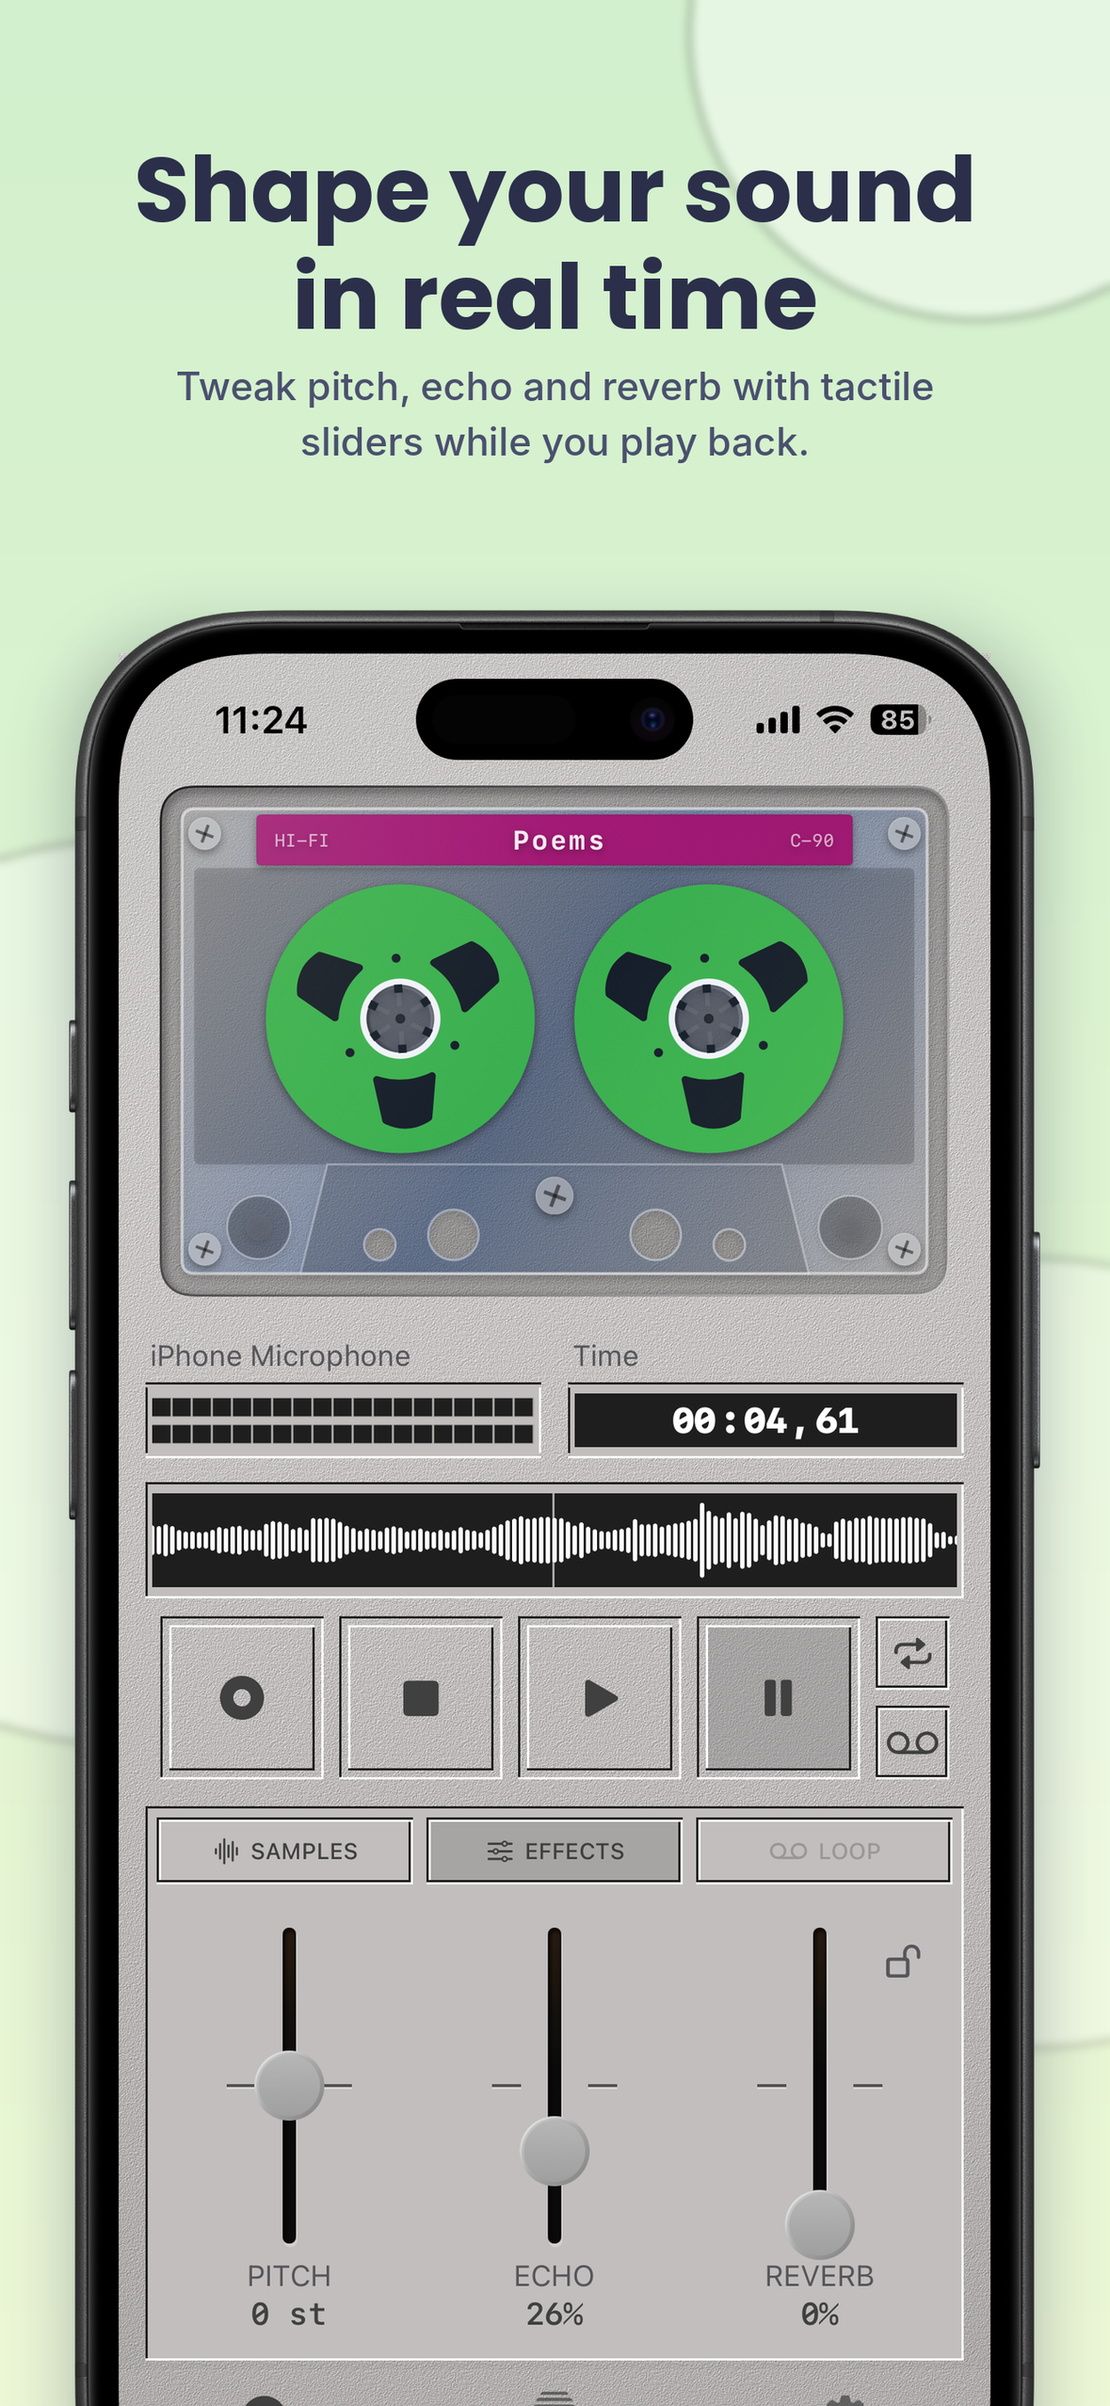
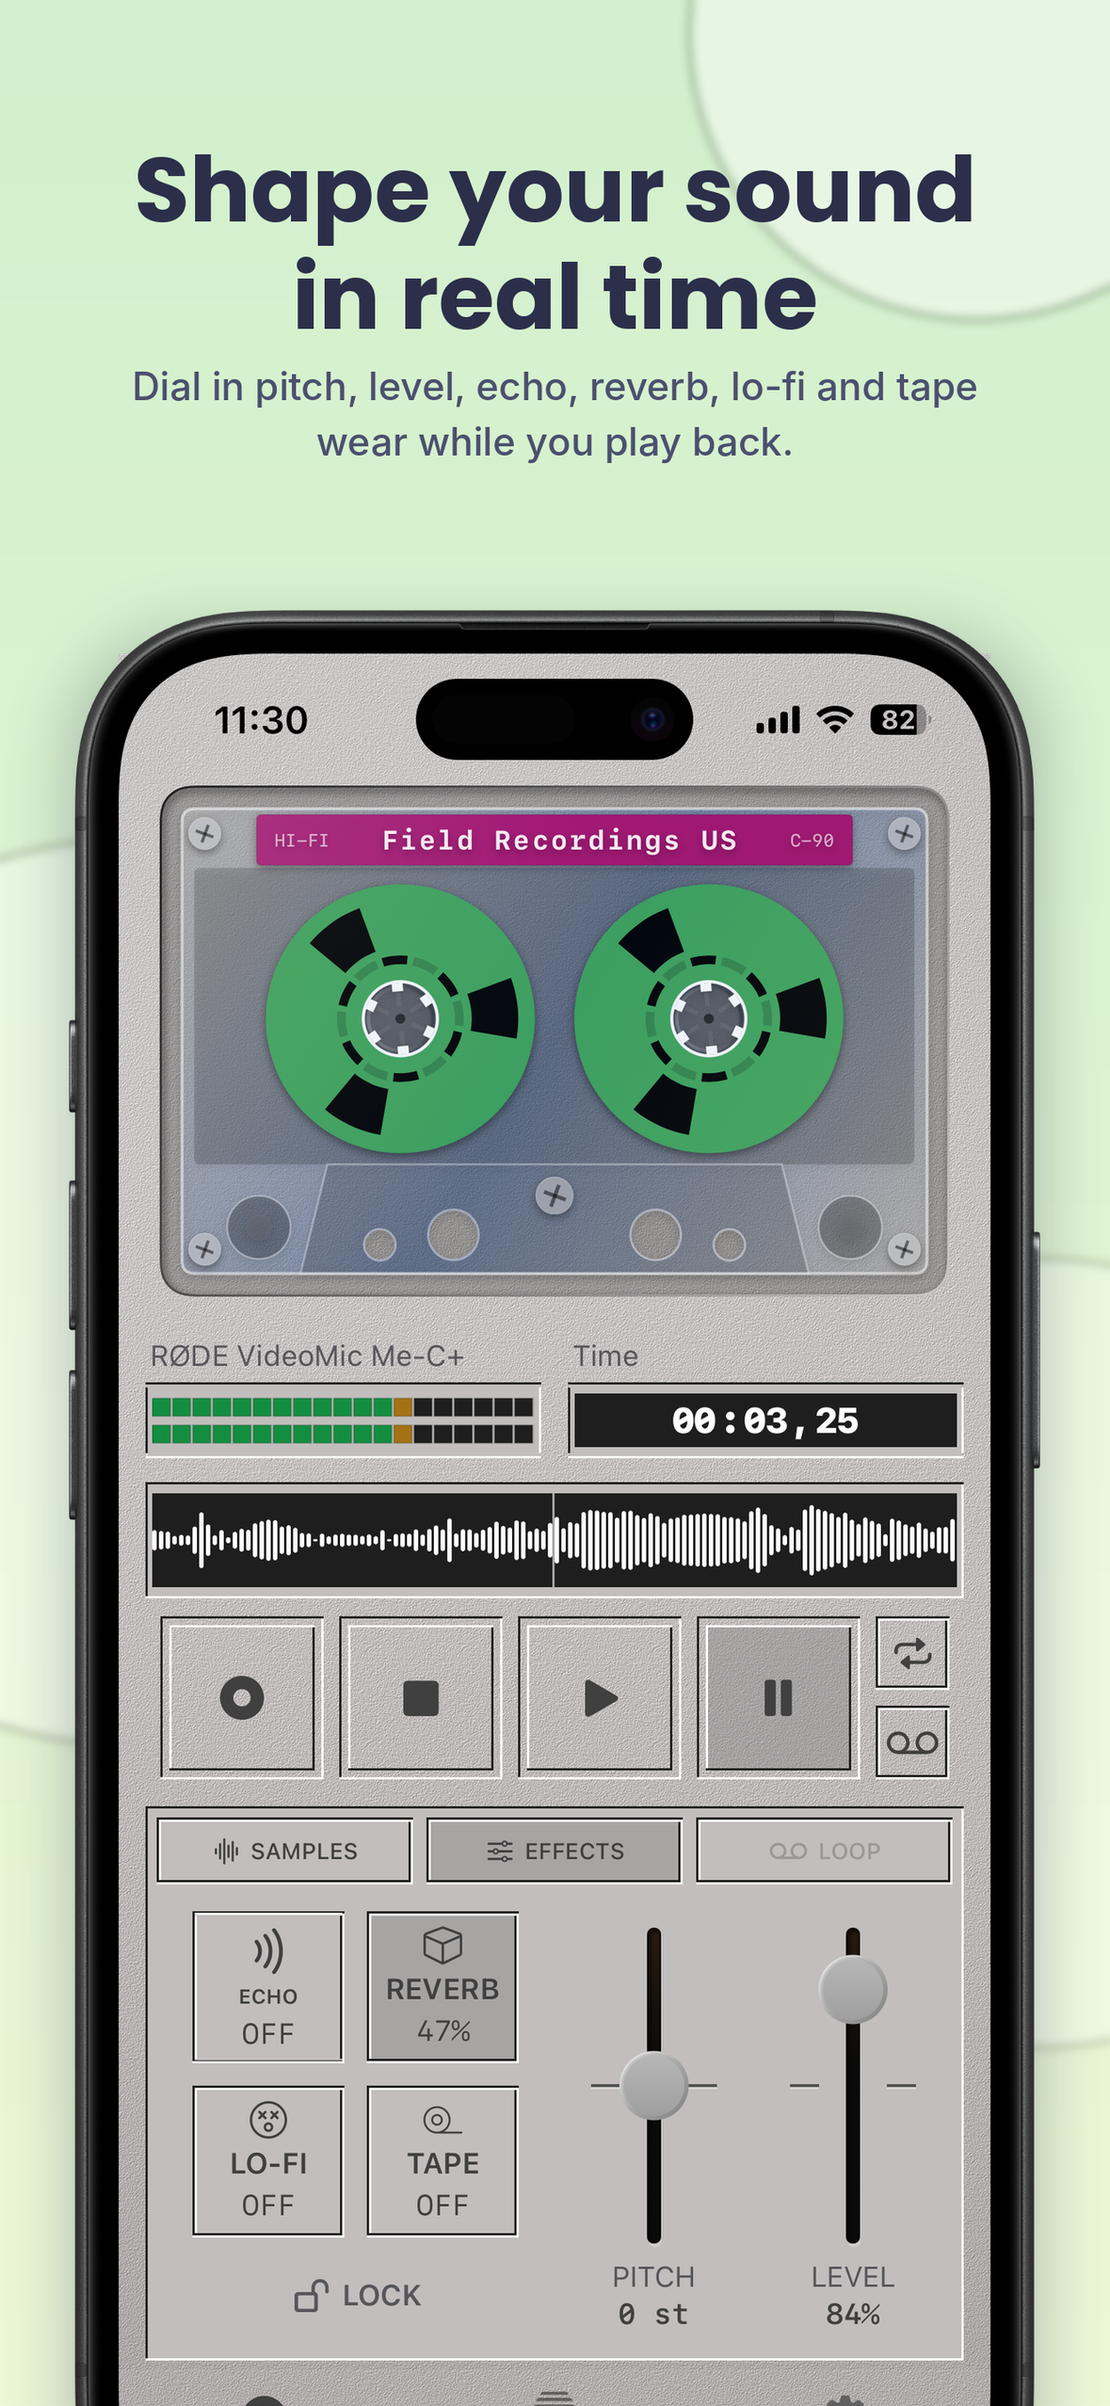
deploy: audiooooooo/thoughts@1700c7e25f80e3cc273754f5f63e9b20ac0e4e39

diff --git a/software/spule/index.html b/software/spule/index.html
@@ -4,7 +4,7 @@
 <span aria-hidden=true></span>
 <span aria-hidden=true></span></a></div><div class=navbar-menu id=navMenu><a class="navbar-item center" href=/software>SOFTWARE & APPS
 </a><a class="navbar-item center" href=/packs>SOUNDS, PACKS & NOISE
-</a><a class="navbar-item center" href=/thoughts>THOUGHTS</a></div></nav><script>document.addEventListener("DOMContentLoaded",()=>{const e=Array.prototype.slice.call(document.querySelectorAll(".navbar-burger"),0);e.forEach(e=>{e.addEventListener("click",()=>{const t=e.dataset.target,n=document.getElementById(t);e.classList.toggle("is-active"),n.classList.toggle("is-active")})})})</script></header><div id=main class=oihac-main><div class="container is-fluid"><section><div class=container><div class=top-breadcrumb><nav class="breadcrumb has-dot-separator is-centered" aria-label=breadcrumbs><ul><li><a href=https://audio.ooo/>audio.ooo</a></li><li><a href=https://audio.ooo/software/>MIDI, Audio & Productivity</a></li><li class=is-active><a href=# aria-current=page>SPULE ~ reel-to-reel tape recorder for iOS</a></li></ul></nav></div><div class=columns><div class=column><div class="columns is-centered"><div class="column is-half image-wrapper"><div class=app-image-container><img class=app-icon-image src=/software/spule/spule.png alt="Round Image"></div></div></div><div id=article-body class="col-sm-9 col-sm-push-3 doc"><h1 itemprop=headline class="has-text-centered is-size-2-mobile">SPULE ~ reel-to-reel tape recorder for iOS</h1><p>SPULE is a reel-to-reel recorder that turns your iPhone into a classic tape machine. Capture audio snippets, put them onto virtual cassettes and play them back with the tactile charm of a vintage deck – spinning reels you can grab, real transport buttons and a paper label that shows what&rsquo;s on the tape.</p><p>The idea for SPULE goes back to 2023: a recorder for quick ideas that feels less like a file manager and more like the TASCAM machine on the shelf. &ldquo;Spule&rdquo; is the German word for &ldquo;reel&rdquo;, spoken like [ˈʃpuːlə].</p><p><strong><a href="https://apps.apple.com/de/app/spule/id6818888318?l=en-GB">Download SPULE on the App Store</a></strong></p><h2 id=record>RECORD</h2><p>Press the record button and start capturing. The stereo LED meters show your level, the display counts the time and the waveform scrolls live while you record. Pick your input (built-in mic, headset, USB or Lightning microphone) in Settings. If you like, each take is tagged with the place where you made it.</p><img src=/software/spule/01_record.png alt="SPULE recording screen on an iPhone with a blue-reel cassette labelled Field Recordings, stereo level meter, timer, live waveform, transport buttons and a list of samples with place and date" title="Record the world around you – Capture field recordings with a live level meter, a precise timer and location tags." style=width:360px;height:auto;border-radius:24px><h2 id=samples>SAMPLES</h2><p>Everything you record lands in the SAMPLES tab below the deck: name, length, date and place at a glance. Tap a sample to load it, then use the transport buttons to play it. Touch and drag the reels to scrub, hold a reel to pause, double-tap Play to play in reverse.</p><img src=/software/spule/03_samples.png alt="SPULE sample list showing recordings and a loop with name, length, date and place" title="Every sample at your fingertips – Record samples and loops, and see name, length, date and place at a glance." style=width:360px;height:auto;border-radius:24px><h2 id=effects>EFFECTS</h2><p>Switch to the EFFECTS tab and move the faders while a sample plays: pitch (±12 semitones), echo and reverb. The settings are stored per sample. Tap the lock icon to lock them so you don&rsquo;t change them by accident.</p><img src=/software/spule/02_effects.png alt="SPULE effects tab with green reels and three faders for pitch, echo and reverb" title="Shape your sound in real time – Tweak pitch, echo and reverb with tactile sliders while you play back." style=width:360px;height:auto;border-radius:24px><h2 id=cassettes>CASSETTES</h2><p>Sort your recordings onto virtual cassettes. Create one with NEW CASSETTE, give it a name and a label color and choose its reels. The rack shows the number of samples and the total length of every tape.</p><img src=/software/spule/04_rack.png alt="SPULE cassette rack with colorful cassettes named Interviews, Poems, Field Recordings, Romantic Piano, Tape I and My Recordings, and a New Cassette button" title="A rack full of cassettes – Sort your recordings onto colorful tapes: poems, interviews, music, field notes." style=width:360px;height:auto;border-radius:24px><h2 id=features>FEATURES</h2><ul><li><p>Record high-quality audio instantly</p></li><li><p>Organize recordings onto virtual cassettes – name them, pick a label color and choose the reels (Tascam, Maxell or TEAC style, in several colors)</p></li><li><p>A single-screen reel-to-reel deck inspired by classic TASCAM recorders</p></li><li><p>Touch and drag the reels to scrub through a take – clockwise to fast-forward, counter-clockwise to rewind. The scrub speed follows your finger</p></li><li><p>Hold a reel during playback to pause, release to resume</p></li><li><p>Double-tap Play for reverse playback – the reels turn the other way</p></li><li><p>Repeat playback – a take loops gaplessly until you stop it, and the reels keep turning across the loop point</p></li><li><p>Pitch (±12 semitones), echo and reverb, stored per sample. Lock a sample&rsquo;s effects so you don&rsquo;t change them by accident while playing</p></li><li><p>Tape loop recording (see below)</p></li><li><p>Waveform of every take that scrolls live while you record, plus stereo LED peak meters with peak hold and clipping indicator</p></li><li><p>Share recordings with other apps through the share sheet</p></li><li><p>Pick your input: built-in mic, wired or Bluetooth headset, USB or Lightning microphone</p></li><li><p>Choose recording quality (Low / Medium / High) and format (M4A/AAC, ALAC, WAV, AIFF). Changes apply to new recordings</p></li><li><p>Tag recordings with the location where they were made – optional, and you can switch it off in Settings</p></li><li><p>Sync your library with iCloud Drive (optional). Recordings are stored on your device first – your audio stays private, and the files are plain audio files you can also see in the Files app</p></li><li><p>Clear all recordings from Settings, behind a typed confirmation</p></li></ul><h2 id=tape-loop-recording>TAPE LOOP RECORDING</h2><p>Switch on loop recording and SPULE behaves like a piece of tape spliced into a ring. Everything you record goes round and round and is recorded on top of what is already on the loop – sound-on-sound, Frippertronics style. The LOOP tab gives you four faders:</p><ul><li><p><strong>Length</strong> – the size of the loop, from 0.5 to 30 seconds. It is fixed when the take starts</p></li><li><p><strong>Feedback</strong> – how much of the previous pass stays on the tape. At 100 % nothing is erased and older layers only fade through generation loss. At 0 % each pass replaces the last one</p></li><li><p><strong>Wobble</strong> – wow and flutter, the slight speed drift of an old machine</p></li><li><p><strong>Tone</strong> – how much treble each pass loses, from dull to bright</p></li></ul><p>Feedback, wobble and tone follow the faders while you record, so you can play the loop like an instrument. Tap a fader&rsquo;s label to reset it.</p><img src=/software/spule/05_loop.png alt="SPULE loop tab while recording a tape loop with four faders for length, feedback, wobble and tone" title="Build your own tape loops – Record loops of up to 30 seconds and shape them live with feedback, wobble and tone." style=width:360px;height:auto;border-radius:24px><p>The waveform shows the loop itself, with a splice marker drawn as a strip of splicing tape. When you stop, the take is trimmed to the last pass and the stop point is crossfaded, so it repeats without a click. Loop takes are marked as loops in the sample list.</p><h2 id=what-can-i-do-and-what-not>WHAT CAN I DO AND WHAT NOT</h2><ul><li><p>You can capture audio and play it back with tape-deck controls</p></li><li><p>You can scrub through a take by turning the reels like on a real machine</p></li><li><p>You can build mixtape-style collections with your own cassettes</p></li><li><p>You can layer sounds into a tape loop and let them slowly fade</p></li><li><p>You can shape playback with pitch, echo and reverb</p></li><li><p>You can share your recordings with other apps and sync them across devices via iCloud Drive</p></li><li><p>You cannot edit in multitrack – SPULE is a tape recorder, not a DAW</p></li></ul><h2 id=download>DOWNLOAD</h2><p><a href="https://apps.apple.com/de/app/spule/id6818888318?l=en-GB">Download on App Store</a></p></div></div></div></div></section></div></div><footer class=has-text-centered><p>Ever wondered who's behind the scenes of <strong>audio.ooo</strong>? Well, it's someone who's been madly in
+</a><a class="navbar-item center" href=/thoughts>THOUGHTS</a></div></nav><script>document.addEventListener("DOMContentLoaded",()=>{const e=Array.prototype.slice.call(document.querySelectorAll(".navbar-burger"),0);e.forEach(e=>{e.addEventListener("click",()=>{const t=e.dataset.target,n=document.getElementById(t);e.classList.toggle("is-active"),n.classList.toggle("is-active")})})})</script></header><div id=main class=oihac-main><div class="container is-fluid"><section><div class=container><div class=top-breadcrumb><nav class="breadcrumb has-dot-separator is-centered" aria-label=breadcrumbs><ul><li><a href=https://audio.ooo/>audio.ooo</a></li><li><a href=https://audio.ooo/software/>MIDI, Audio & Productivity</a></li><li class=is-active><a href=# aria-current=page>SPULE ~ reel-to-reel tape recorder for iOS</a></li></ul></nav></div><div class=columns><div class=column><div class="columns is-centered"><div class="column is-half image-wrapper"><div class=app-image-container><img class=app-icon-image src=/software/spule/spule.png alt="Round Image"></div></div></div><div id=article-body class="col-sm-9 col-sm-push-3 doc"><h1 itemprop=headline class="has-text-centered is-size-2-mobile">SPULE ~ reel-to-reel tape recorder for iOS</h1><p>SPULE is a reel-to-reel recorder that turns your iPhone into a classic tape machine. Capture audio snippets, put them onto virtual cassettes and play them back with the tactile charm of a vintage deck – spinning reels you can grab, real transport buttons and a paper label that shows what&rsquo;s on the tape.</p><p>The idea for SPULE goes back to 2023: a recorder for quick ideas that feels less like a file manager and more like the TASCAM machine on the shelf. &ldquo;Spule&rdquo; is the German word for &ldquo;reel&rdquo;, spoken like [ˈʃpuːlə].</p><p><strong><a href="https://apps.apple.com/de/app/spule/id6818888318?l=en-GB">Download SPULE on the App Store</a></strong></p><h2 id=record>RECORD</h2><p>Press the record button and start capturing. The stereo LED meters show your level, the display counts the time and the waveform scrolls live while you record. Pick your input (built-in mic, headset, USB or Lightning microphone) in Settings. If you like, each take is tagged with the place where you made it.</p><img src=/software/spule/01_record.png alt="SPULE recording screen on an iPhone with a blue-reel cassette labelled Field Recordings, stereo level meter, timer, live waveform, transport buttons and a list of samples with place and date" title="Record the world around you – Capture field recordings with a live level meter, a precise timer and location tags." style=width:360px;height:auto;border-radius:24px><h2 id=samples>SAMPLES</h2><p>Everything you record lands in the SAMPLES tab below the deck: name, length, date and place at a glance. Tap a sample to load it, then use the transport buttons to play it. Touch and drag the reels to scrub, hold a reel to pause, double-tap Play to play in reverse.</p><img src=/software/spule/03_samples.png alt="SPULE sample list showing recordings and a loop with name, length, date and place" title="Every sample at your fingertips – Record samples and loops, and see name, length, date and place at a glance." style=width:360px;height:auto;border-radius:24px><h2 id=effects>EFFECTS</h2><p>Switch to the EFFECTS tab and move the faders while a sample plays: pitch (±12 semitones), echo and reverb. The settings are stored per sample. Tap the lock icon to lock them so you don&rsquo;t change them by accident.</p><img src=/software/spule/02_effects.png alt="SPULE effects tab with green reels on a Field Recordings cassette, echo, reverb, lo-fi and tape buttons and faders for pitch and level" title="Shape your sound in real time – Dial in pitch, level, echo, reverb, lo-fi and tape wear while you play back." style=width:360px;height:auto;border-radius:24px><h2 id=cassettes>CASSETTES</h2><p>Sort your recordings onto virtual cassettes. Create one with NEW CASSETTE, give it a name and a label color and choose its reels. The rack shows the number of samples and the total length of every tape.</p><img src=/software/spule/04_rack.png alt="SPULE cassette rack with colorful cassettes named Interviews, Poems, Field Recordings, Romantic Piano, Tape I and My Recordings, and a New Cassette button" title="A rack full of cassettes – Sort your recordings onto colorful tapes: poems, interviews, music, field notes." style=width:360px;height:auto;border-radius:24px><h2 id=features>FEATURES</h2><ul><li><p>Record high-quality audio instantly</p></li><li><p>Organize recordings onto virtual cassettes – name them, pick a label color and choose the reels (Tascam, Maxell or TEAC style, in several colors)</p></li><li><p>A single-screen reel-to-reel deck inspired by classic TASCAM recorders</p></li><li><p>Touch and drag the reels to scrub through a take – clockwise to fast-forward, counter-clockwise to rewind. The scrub speed follows your finger</p></li><li><p>Hold a reel during playback to pause, release to resume</p></li><li><p>Double-tap Play for reverse playback – the reels turn the other way</p></li><li><p>Repeat playback – a take loops gaplessly until you stop it, and the reels keep turning across the loop point</p></li><li><p>Pitch (±12 semitones), echo and reverb, stored per sample. Lock a sample&rsquo;s effects so you don&rsquo;t change them by accident while playing</p></li><li><p>Tape loop recording (see below)</p></li><li><p>Waveform of every take that scrolls live while you record, plus stereo LED peak meters with peak hold and clipping indicator</p></li><li><p>Share recordings with other apps through the share sheet</p></li><li><p>Pick your input: built-in mic, wired or Bluetooth headset, USB or Lightning microphone</p></li><li><p>Choose recording quality (Low / Medium / High) and format (M4A/AAC, ALAC, WAV, AIFF). Changes apply to new recordings</p></li><li><p>Tag recordings with the location where they were made – optional, and you can switch it off in Settings</p></li><li><p>Sync your library with iCloud Drive (optional). Recordings are stored on your device first – your audio stays private, and the files are plain audio files you can also see in the Files app</p></li><li><p>Clear all recordings from Settings, behind a typed confirmation</p></li></ul><h2 id=tape-loop-recording>TAPE LOOP RECORDING</h2><p>Switch on loop recording and SPULE behaves like a piece of tape spliced into a ring. Everything you record goes round and round and is recorded on top of what is already on the loop – sound-on-sound, Frippertronics style. The LOOP tab gives you four faders:</p><ul><li><p><strong>Length</strong> – the size of the loop, from 0.5 to 30 seconds. It is fixed when the take starts</p></li><li><p><strong>Feedback</strong> – how much of the previous pass stays on the tape. At 100 % nothing is erased and older layers only fade through generation loss. At 0 % each pass replaces the last one</p></li><li><p><strong>Wobble</strong> – wow and flutter, the slight speed drift of an old machine</p></li><li><p><strong>Tone</strong> – how much treble each pass loses, from dull to bright</p></li></ul><p>Feedback, wobble and tone follow the faders while you record, so you can play the loop like an instrument. Tap a fader&rsquo;s label to reset it.</p><img src=/software/spule/05_loop.png alt="SPULE loop tab while recording a tape loop with four faders for length, feedback, wobble and tone" title="Build your own tape loops – Record loops of up to 30 seconds and shape them live with feedback, wobble and tone." style=width:360px;height:auto;border-radius:24px><p>The waveform shows the loop itself, with a splice marker drawn as a strip of splicing tape. When you stop, the take is trimmed to the last pass and the stop point is crossfaded, so it repeats without a click. Loop takes are marked as loops in the sample list.</p><h2 id=what-can-i-do-and-what-not>WHAT CAN I DO AND WHAT NOT</h2><ul><li><p>You can capture audio and play it back with tape-deck controls</p></li><li><p>You can scrub through a take by turning the reels like on a real machine</p></li><li><p>You can build mixtape-style collections with your own cassettes</p></li><li><p>You can layer sounds into a tape loop and let them slowly fade</p></li><li><p>You can shape playback with pitch, echo and reverb</p></li><li><p>You can share your recordings with other apps and sync them across devices via iCloud Drive</p></li><li><p>You cannot edit in multitrack – SPULE is a tape recorder, not a DAW</p></li></ul><h2 id=download>DOWNLOAD</h2><p><a href="https://apps.apple.com/de/app/spule/id6818888318?l=en-GB">Download on App Store</a></p></div></div></div></div></section></div></div><footer class=has-text-centered><p>Ever wondered who's behind the scenes of <strong>audio.ooo</strong>? Well, it's someone who's been madly in
 love with audio and MIDI since 1999 - talk about a long-term relationship! For more thrilling tales and less
 thrilling legalities, check out our <a href=/blabla/imprint>Imprint</a> or our <a href=/blabla/privacy>Privacy Statement</a>.
 And because we're hip and happening, catch us oversharing on <a href=https://www.instagram.com/audiooooooooooooo/>Instagram</a>.
